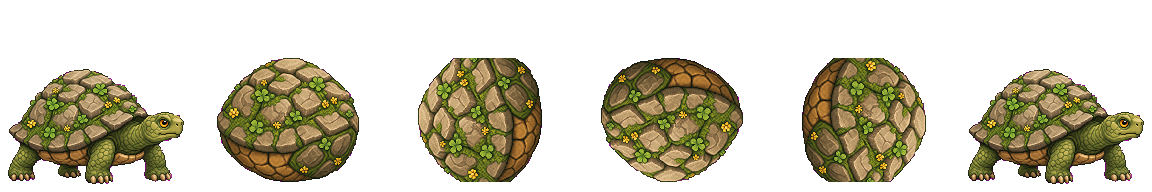
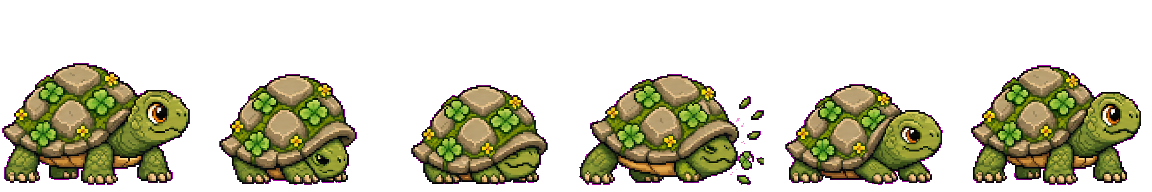
Redesenha a Tartaruga da Campina no estilo cartoon (#37)

diff --git a/public/demo64/game-original.js b/public/demo64/game-original.js
@@ -175,9 +175,9 @@
     this.load.image('cursed-scarecrow-idle', A + 'creatures/campo/cursed_scarecrow/idle.png?v=small1');
     this.load.spritesheet('cursed-scarecrow-walk', A + 'creatures/campo/cursed_scarecrow/walk.png?v=small1', { frameWidth: 192, frameHeight: 192 });
     this.load.spritesheet('cursed-scarecrow-attack', A + 'creatures/campo/cursed_scarecrow/attack.png?v=small1', { frameWidth: 192, frameHeight: 192 });
-    this.load.image('meadow-turtle-idle', A + 'creatures/campo/meadow_turtle/idle.png?v=1');
-    this.load.spritesheet('meadow-turtle-walk', A + 'creatures/campo/meadow_turtle/walk.png?v=1', { frameWidth: 192, frameHeight: 192 });
-    this.load.spritesheet('meadow-turtle-attack', A + 'creatures/campo/meadow_turtle/attack.png?v=1', { frameWidth: 192, frameHeight: 192 });
+    this.load.image('meadow-turtle-idle', A + 'creatures/campo/meadow_turtle/idle.png?v=cartoon1');
+    this.load.spritesheet('meadow-turtle-walk', A + 'creatures/campo/meadow_turtle/walk.png?v=cartoon1', { frameWidth: 192, frameHeight: 192 });
+    this.load.spritesheet('meadow-turtle-attack', A + 'creatures/campo/meadow_turtle/attack.png?v=cartoon1', { frameWidth: 192, frameHeight: 192 });
     this.load.image('deer-king-idle', A + 'creatures/campo/deer_king/idle.png?v=cartoon1');
     this.load.image('deer-king-enraged', A + 'creatures/campo/deer_king/enraged.png?v=polish1');
     this.load.spritesheet('deer-king-walk', A + 'creatures/campo/deer_king/walk.png?v=walk3', { frameWidth: 256, frameHeight: 256 });

diff --git a/public/demo64/game.js b/public/demo64/game.js
@@ -1,7 +1,7 @@
 /* GameRPG loader */
 (function () {
   const script = document.createElement('script');
-  script.src = './game-original.js?v=scarecrow-player-size-v1';
+  script.src = './game-original.js?v=turtle-cartoon-v1';
   script.onerror = () => console.error('[GameRPG] Falha ao carregar o jogo principal.');
   document.head.appendChild(script);
 })();

diff --git a/public/demo64/index.html b/public/demo64/index.html
@@ -581,6 +581,6 @@ addEventListener('keydown', e => {
   sync();
 })();
 </script>
-<script src="game.js?v=scarecrow-player-size-v1"></script>
+<script src="game.js?v=turtle-cartoon-v1"></script>
 </body>
 </html>
